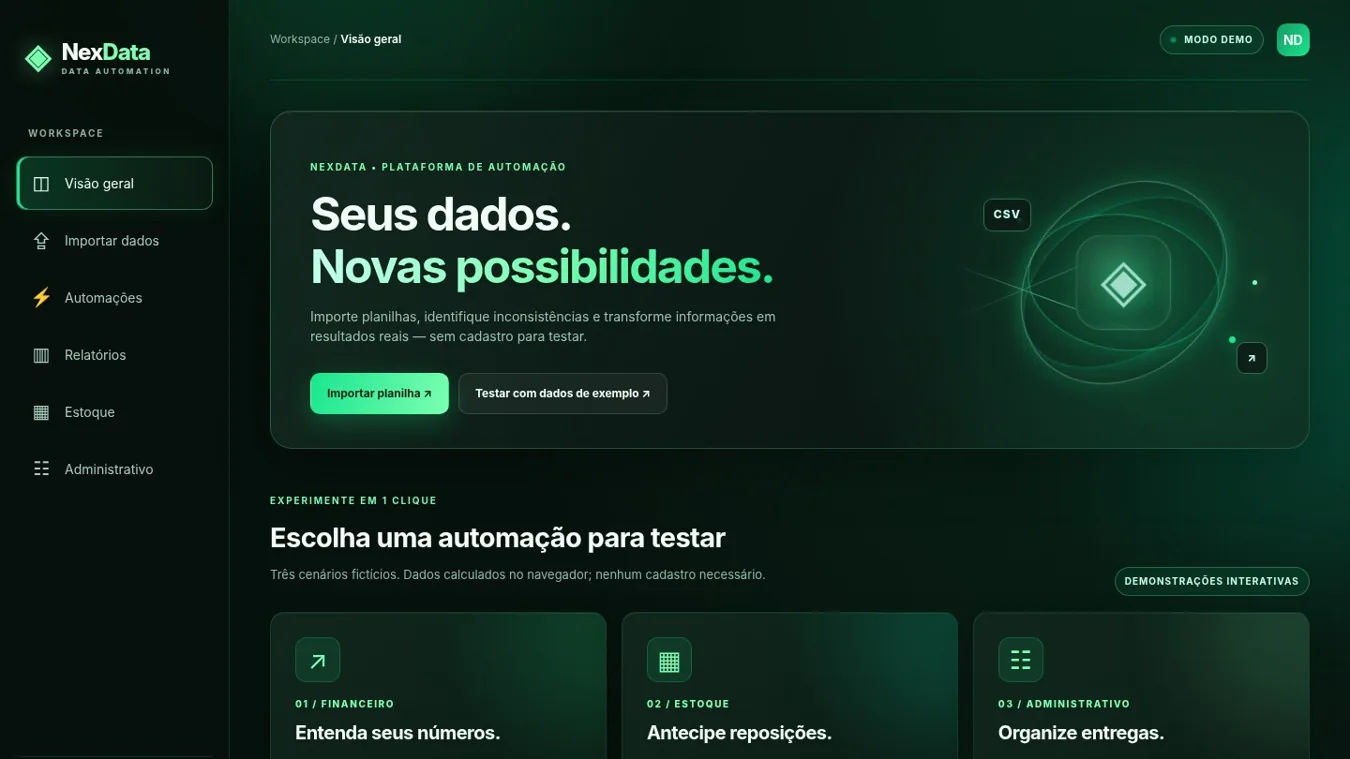
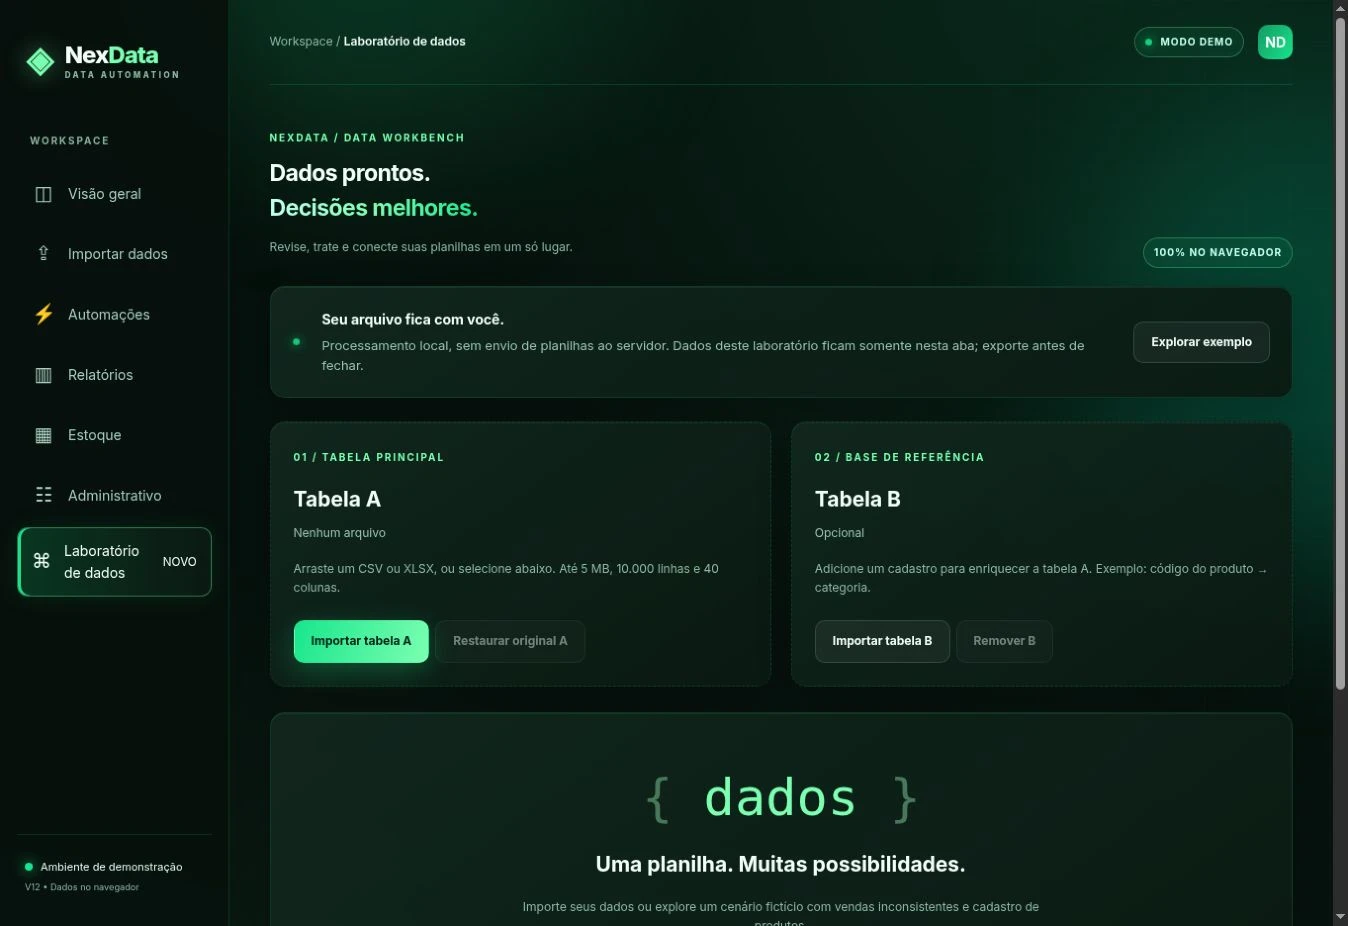
Atualiza NexData no portfólio

diff --git a/app.js b/app.js
@@ -2,7 +2,7 @@
 const PROJECTS = [
  {id:'shopcore',name:'ShopCore V6',category:'sistemas',type:'E-commerce com painel administrativo',description:'Loja virtual demonstrativa com catálogo e carrinho interativos, autenticação de administrador, gestão de preços e estoque e integração com Supabase. Não processa pagamentos reais.',technologies:['React','TypeScript','Vite','Supabase','RLS','Git'],features:['Catálogo de oito produtos demonstrativos','Login administrativo com autenticação','Gerenciamento de preço, estoque e visibilidade','Persistência no Supabase e políticas RLS','15 testes automatizados aprovados e deploy em produção'],images:['shopcore-1.webp','shopcore-2.webp','shopcore-3.webp'],url:'https://shopcore-ultimate.vercel.app/'},
  {id:'nexora',name:'Nexora',category:'sistemas',type:'Sistema web',description:'Sistema demonstrativo de gestão empresarial com autenticação, cadastro de clientes, financeiro, tarefas e relatórios. Uma experiência organizada para explorar rotinas administrativas.',technologies:['HTML','CSS','JavaScript','Supabase','SQL','RLS'],features:['Autenticação de usuários com Supabase','Cadastro e organização de clientes','Controle de entradas e saídas','Gestão de tarefas e relatórios','Políticas de acesso por usuário no banco'],images:['nexora-1.webp','nexora-2.webp','nexora-3.webp','nexora-4.webp'],url:'https://nexora-zeta-rouge.vercel.app/'},
- {id:'nexdata',name:'NexData',category:'dados',type:'Dashboard e planilhas',description:'Plataforma demonstrativa para importar, validar e visualizar informações de planilhas CSV e Excel diretamente no navegador, com painéis de análise financeira, estoque e administração.',technologies:['HTML','CSS','JavaScript','CSV','Excel','Gráficos'],features:['Importação de arquivos CSV e Excel','Dashboards financeiros e de estoque','Validação e organização de informações','Gráficos e indicadores interativos','Exportação de dados; processamento local no navegador'],images:['nexdata-1.webp','nexdata-2.webp','nexdata-3.webp','nexdata-4.webp'],url:'https://nexdata-seven.vercel.app/'},
+ {id:'nexdata',"name": "NexData", "category": "dados", "type": "Tratamento de dados e SQL no navegador", "description": "Plataforma demonstrativa para importar CSV e Excel, revisar a qualidade, tratar inconsistências com prévia, cruzar tabelas e consultar dados com SQL. Mantém painéis financeiros, de estoque e administrativos, com processamento local.", "technologies": ["TypeScript", "DuckDB-Wasm", "SQL", "JavaScript", "Vite", "SheetJS"], "features": ["Importação CSV e XLSX com seleção de aba no laboratório", "Diagnóstico de duplicados, campos vazios, números e datas inválidos", "Regras de limpeza com prévia, desfazer e restauração do original", "Cruzamento LEFT e INNER entre duas tabelas com validação de chaves", "Consultas SQL locais com DuckDB-Wasm e acesso externo desabilitado", "Exportação CSV e relatório HTML de qualidade", "Módulos financeiro, estoque e administrativo preservados", "10 testes automatizados e verificações de Excel, SQL e layout móvel", "Sem backend nesta etapa; dados do laboratório permanecem somente na aba"], "images": ["nexdata-1.webp", "nexdata-2.webp", "nexdata-3.webp", "nexdata-4.webp"], "url": "https://nexdata-seven.vercel.app/"},
  {id:'sabor', "name": "Sabor da Praça", "category": "sites", "type": "Restaurante com pedidos e gestão", "description": "Restaurante fictício com cardápio interativo, adicionais, sacola, pedidos persistentes e acompanhamento do preparo. Cozinha e gestão demonstrativas conectadas ao Supabase, com dados isolados por visitante e interface responsiva.", "technologies": ["React", "TypeScript", "Supabase", "PostgreSQL", "Realtime", "Vite"], "features": ["Busca, categorias, favoritos e filtro vegetariano", "Adicionais, sacola e checkout fictício para retirada ou mesa", "Acompanhamento e cancelamento inicial de pedidos", "Cozinha com etapas de recebimento, preparo, pronto e conclusão", "Gestão de cardápio, disponibilidade, indicadores e exportação CSV", "Preços e estoque validados no servidor; proteção contra pedidos duplicados", "19 testes automatizados; integração online, isolamento e Realtime verificados", "Sem pagamentos ou entregas reais; papéis de cliente, cozinha e gestão simulados"], "images": ["sabor-1.webp", "sabor-2.webp", "sabor-3.webp", "sabor-4.webp"], "url": "https://loquacious-cendol-c3884f.netlify.app/"},
  {id:'bella',"name":"Bella Studio","category":"sites","type":"Site com agendamento e gestão","description":"Salão fictício com agendamento por serviço e profissional, área do cliente e painel de gestão. Interface responsiva com fotos ilustrativas, personagens e dados persistidos em ambientes demonstrativos separados.","technologies":["React","TypeScript","Cloudflare D1","SQLite","Vinext","Drizzle"],"features":["Reserva por serviço, profissional, data e horário disponível","Personagens fictícias com avatar e apresentação","Remarcação e cancelamento com regras de antecedência","Gestão de serviços, profissionais e bloqueios da agenda","Indicadores calculados sobre os atendimentos e histórico de ações","Exportações CSV e calendário; banco persistente D1","21 testes automatizados e 10 verificações HTTP na prévia","Sem cobranças reais; perfis cliente e gestora demonstrativos"],"images":["bella-1.webp","bella-2.webp","bella-3.webp","bella-4.webp"],"url":"https://merry-hamster-308b45.netlify.app/"}
 ];
@@ -10,14 +10,14 @@ const PROJECTS = [
 const PROJECT_EXTRA = {
  shopcore:{challenge:['Demonstrar um comércio virtual com áreas públicas e administração protegida.','Demonstrate a shopping experience with public pages and protected administration.'],solution:['Catálogo, simulação de carrinho, login e inventário editável com Supabase.','Catalog, simulated cart, login and editable inventory using Supabase.'],validation:['15 testes automatizados, build de produção e revisão das políticas RLS.','15 automated tests, production build and RLS policy review.']},
  nexora:{challenge:['Organizar informações de gestão em uma interface demonstrativa.','Organize management information in a demonstration interface.'],solution:['Painéis, cadastro, tarefas e autenticação com Supabase.','Dashboards, records, tasks and Supabase authentication.'],validation:['Projeto demonstrativo publicado; funcionalidades descritas sem métricas comerciais.','Published demo; features described without claiming commercial metrics.']},
- nexdata:{challenge:['Tornar planilhas mais fáceis de explorar no navegador.','Make spreadsheets easier to explore in the browser.'],solution:['Importação e visualização de CSV/Excel, indicadores e gráficos.','CSV/Excel importing and visualization with metrics and charts.'],validation:['Demonstração local de tratamento de dados; sem integração financeira real.','Local data-processing demonstration; no real financial integration.']},
+ nexdata:{"challenge": ["Transformar planilhas em dados revisáveis e análises úteis, preservando o controle do usuário sobre cada correção.", "Turn spreadsheets into reviewable data and useful analysis, keeping users in control of corrections."], "solution": ["Laboratório TypeScript com qualidade, limpeza reversível, cruzamentos e SQL em DuckDB-Wasm, além dos painéis existentes.", "A TypeScript workbench with data quality checks, reversible cleaning, joins and DuckDB-Wasm SQL alongside the existing dashboards."], "validation": ["10 testes automatizados aprovados e verificações locais de Excel, SQL, exportação e layout móvel. Dados temporários nesta aba; sem API Python nesta etapa.", "10 automated tests passed, plus local Excel, SQL, export and mobile layout checks. Temporary tab-local data; no Python API at this stage."]},
  sabor:{"challenge": ["Conectar a experiência de um restaurante fictício do cardápio à operação, mantendo os dados separados por visitante.", "Connect a fictional restaurant menu to its operations while isolating each visitor’s demonstration data."], "solution": ["React e TypeScript com pedidos persistentes, regras de estoque e preços no PostgreSQL, cozinha, gestão e sinalização Realtime.", "React and TypeScript with persistent orders, PostgreSQL inventory and pricing rules, kitchen, management and Realtime signals."], "validation": ["19 testes automatizados aprovados. Integração online, idempotência, isolamento, fluxo da cozinha e Realtime verificados. Sem transações comerciais reais.", "19 automated tests passed. Online integration, idempotency, isolation, kitchen workflow and Realtime verified. No real commercial transactions."]},
  bella:{challenge:['Evoluir um site de beleza para demonstrar atendimento e gestão conectados.','Evolve a beauty website into connected booking and management experiences.'],solution:['Agendamento com regras no servidor, área do cliente, gestão, indicadores e personagens fictícias.','Server-validated booking, customer area, management, metrics and fictional characters.'],validation:['21 testes automatizados e 10 verificações HTTP na prévia. Sem pagamentos reais; papéis demonstrativos.','21 automated tests and 10 HTTP checks in preview. No real payments; demonstration roles.']}
 };
 const PROJECT_EN={
  shopcore:{type:'E-commerce with admin dashboard',description:'Demonstration store featuring an interactive catalog and cart, admin login, pricing and inventory management, and Supabase integration. No real payments.',features:['Eight demo products','Authenticated administrator login','Price, inventory and visibility management','Supabase persistence and RLS policies','15 automated tests passed and production deployment']},
  nexora:{type:'Web management system',description:'Demonstration business management system featuring authentication, customer records, finances, tasks and reports.',features:['Supabase user authentication','Customer records and organization','Income and expenses overview','Tasks and reports','User-scoped database policies']},
- nexdata:{type:'Dashboard & spreadsheets',description:'Browser-based demonstration platform for importing, validating and visualizing CSV and Excel spreadsheets.',features:['CSV and Excel imports','Financial and inventory dashboards','Data validation and organization','Interactive charts and indicators','Export and local browser processing']},
+ nexdata:{"type": "Data cleaning and browser-based SQL", "description": "Demonstration platform to import CSV and Excel, review data quality, preview cleaning rules, join tables and run local SQL. Financial, inventory and administrative dashboards remain available.", "features": ["CSV/XLSX import with sheet selection in the workbench", "Duplicate, missing-value, invalid number and date diagnostics", "Cleaning previews, undo and original-data restoration", "LEFT and INNER joins with reference-key validation", "Local DuckDB-Wasm SQL with external access disabled", "CSV exports and HTML quality reports", "Existing financial, inventory and administrative dashboards", "10 automated tests and Excel, SQL and mobile layout checks", "No backend at this stage; workbench data lives only in this tab"]},
  sabor:{"type": "Restaurant ordering and management", "description": "Fictional restaurant featuring an interactive menu, extras, cart, persistent orders and preparation tracking. Demonstration kitchen and management views use Supabase, visitor-isolated data and a responsive interface.", "features": ["Search, categories, favorites and vegetarian filter", "Extras, cart and simulated pickup or table checkout", "Order tracking and initial cancellation", "Kitchen workflow from received to completed", "Menu, availability, metrics and CSV exports", "Server-validated prices and stock; duplicate-order protection", "19 automated tests; online integration, isolation and Realtime checked", "No real payments or deliveries; simulated customer, kitchen and management roles"]},
  bella:{type:'Website with booking and management',description:'Fictional beauty studio with service and professional booking, a customer area and a management dashboard. Responsive design, illustrative photos, characters and persistent data in separate demo environments.',features:['Book an available service, professional, date and time','Fictional professionals with illustrated avatars and introductions','Rescheduling and cancellation with advance-notice rules','Manage services, professionals and blocked time','Metrics calculated from appointments and an activity history','CSV/calendar exports and persistent D1 storage','21 automated tests and 10 HTTP checks in preview','No real charges; customer and manager are demo perspectives']}
 };
@@ -135,7 +135,7 @@ const observer=('IntersectionObserver'in window)?new IntersectionObserver(entrie
   const commands={
     help:'COMANDOS DISPONÍVEIS\nhelp       mostra esta lista\nabout      sobre Gabriel\nprojects   lista projetos\nnexora     abre estudo de caso Nexora\nshopcore   abre estudo de caso ShopCore\nnexdata    abre estudo de caso NexData\nsabor      abre estudo de caso Sabor da Praça\nbella      abre estudo de caso Bella Studio\nskills     habilidades e tecnologias\ncontact    dados de contato\nclear      limpa este terminal\nmatrix     surpresa visual\nexit       fecha o terminal',
     about:'Gabriel Lima — estudante de Análise e Desenvolvimento de Sistemas na Estácio. Desenvolvimento web, interfaces, dashboards e sistemas autorais demonstrativos.',
-    projects:'[01] ShopCore V6 — e-commerce com Supabase\n[02] Nexora — gestão web com Supabase\n[03] NexData — análise de planilhas no navegador\n[04] Sabor da Praça — pedidos, cozinha e gestão com Supabase\n[05] Bella Studio — agendamento e gestão demonstrativos\n\nDigite o nome do projeto para abrir detalhes.',
+    projects:'[01] ShopCore V6 — e-commerce com Supabase\n[02] Nexora — gestão web com Supabase\n[03] NexData — tratamento de planilhas, cruzamentos e SQL local\n[04] Sabor da Praça — pedidos, cozinha e gestão com Supabase\n[05] Bella Studio — agendamento e gestão demonstrativos\n\nDigite o nome do projeto para abrir detalhes.',
     skills:'HTML5 / CSS3 / JavaScript / Supabase / SQL / CSV / Excel / Responsividade / Interfaces / Dashboards',
     contact:'WhatsApp: wa.me/5531972120246\nE-mail: gf.dlimaa25@gmail.com\nGitHub: github.com/GFDLima\nLinkedIn: gabriel-lima-565636184/\n\nUse a seção de contato para enviar uma mensagem.'
   };
@@ -155,7 +155,7 @@ const observer=('IntersectionObserver'in window)?new IntersectionObserver(entrie
       if(motionEnabled){document.body.classList.add('neon-flash');setTimeout(()=>document.body.classList.remove('neon-flash'),650)}
       return;
     }
-    const translations=window.GL_LANG==='en'?{help:'AVAILABLE COMMANDS\nhelp — this list\nabout — about Gabriel\nprojects — list projects\nshopcore / nexora / nexdata / sabor / bella — open a case study\nskills — technologies\ncontact — contact details\nclear — clear terminal\nmatrix — visual surprise\nexit — close terminal',about:'Gabriel Lima — Systems Analysis and Development student at Estácio, building demonstration web applications.',projects:'[01] ShopCore — e-commerce with Supabase\n[02] Nexora — business management\n[03] NexData — spreadsheet dashboards\n[04] Sabor da Praça — ordering, kitchen and management with Supabase\n[05] Bella Studio — booking and management demo',skills:'HTML5 / CSS3 / JavaScript / React / TypeScript / Supabase / SQL / CSV / Excel / Git',contact:'WhatsApp: wa.me/5531972120246\nEmail: gf.dlimaa25@gmail.com\nGitHub: github.com/GFDLima\nLinkedIn: gabriel-lima-565636184/'}:commands;appendLine(translations[typed]||projectText('Comando desconhecido. Digite help para ver as opções.','Unknown command. Type help for options.'),translations[typed]?'answer':'error');
+    const translations=window.GL_LANG==='en'?{help:'AVAILABLE COMMANDS\nhelp — this list\nabout — about Gabriel\nprojects — list projects\nshopcore / nexora / nexdata / sabor / bella — open a case study\nskills — technologies\ncontact — contact details\nclear — clear terminal\nmatrix — visual surprise\nexit — close terminal',about:'Gabriel Lima — Systems Analysis and Development student at Estácio, building demonstration web applications.',projects:'[01] ShopCore — e-commerce with Supabase\n[02] Nexora — business management\n[03] NexData — data cleaning, joins and local SQL\n[04] Sabor da Praça — ordering, kitchen and management with Supabase\n[05] Bella Studio — booking and management demo',skills:'HTML5 / CSS3 / JavaScript / React / TypeScript / Supabase / SQL / CSV / Excel / Git',contact:'WhatsApp: wa.me/5531972120246\nEmail: gf.dlimaa25@gmail.com\nGitHub: github.com/GFDLima\nLinkedIn: gabriel-lima-565636184/'}:commands;appendLine(translations[typed]||projectText('Comando desconhecido. Digite help para ver as opções.','Unknown command. Type help for options.'),translations[typed]?'answer':'error');
   }
   function openTerminal(){
     if(dialog.open)dialog.close();
